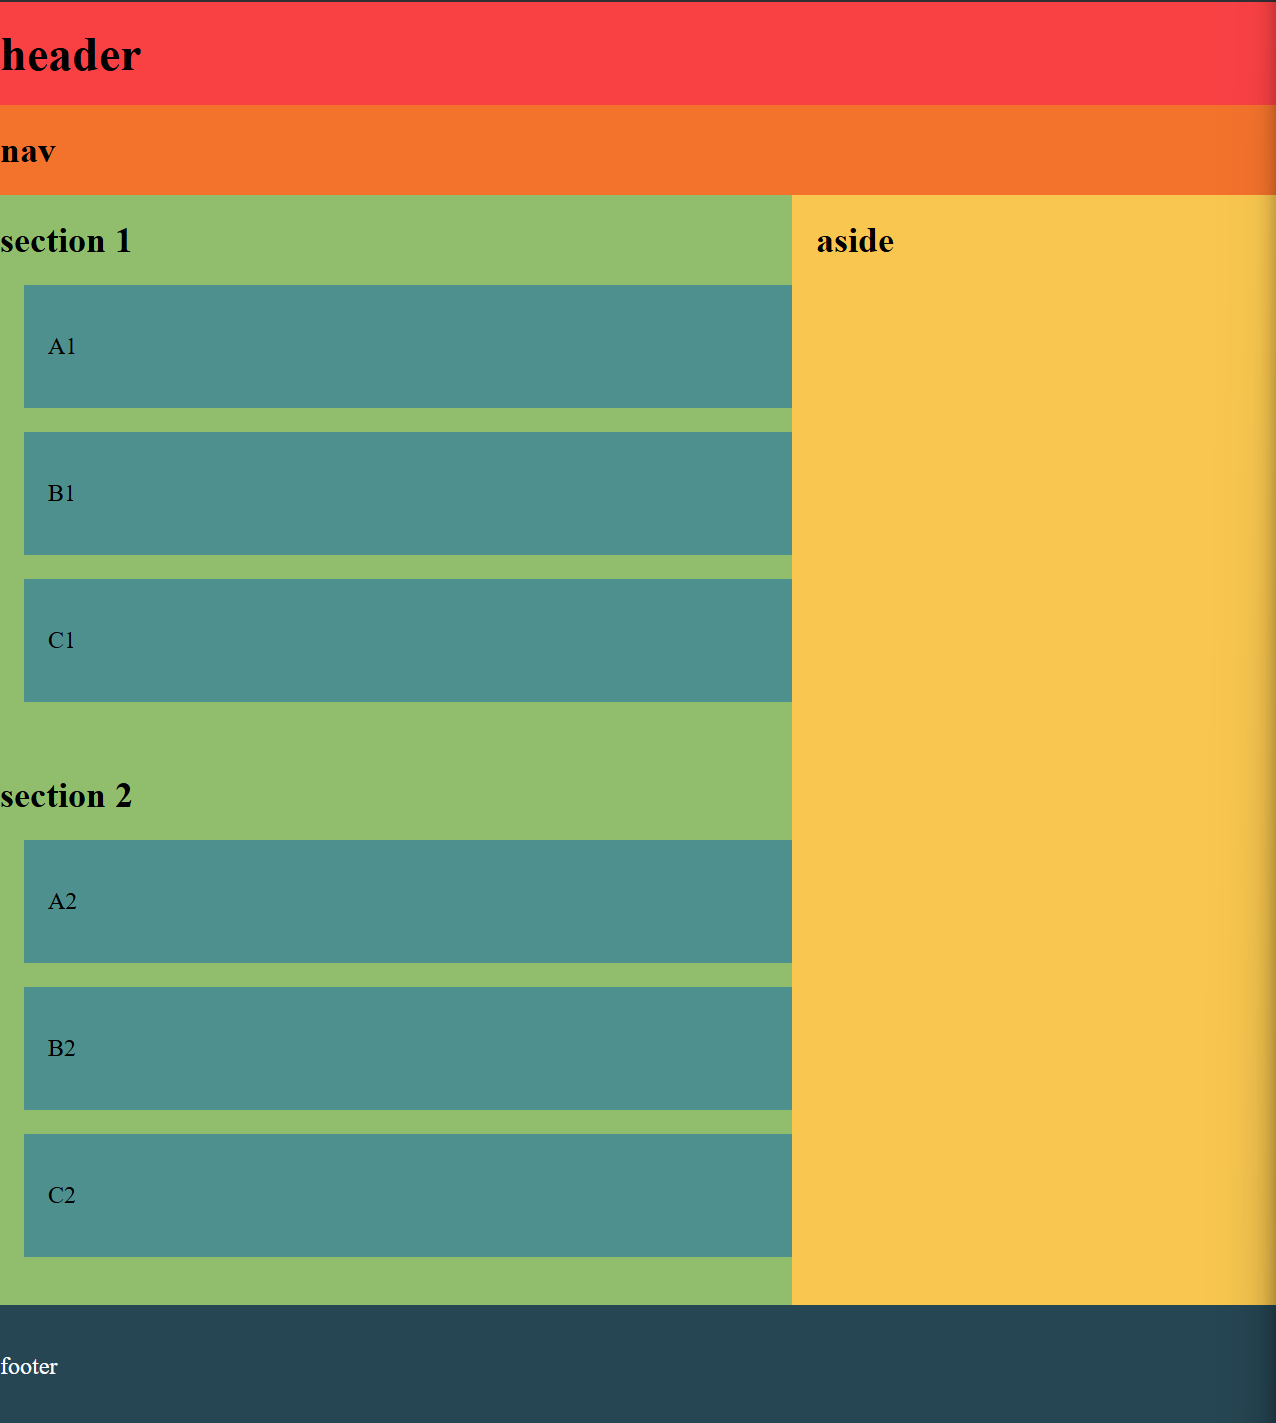
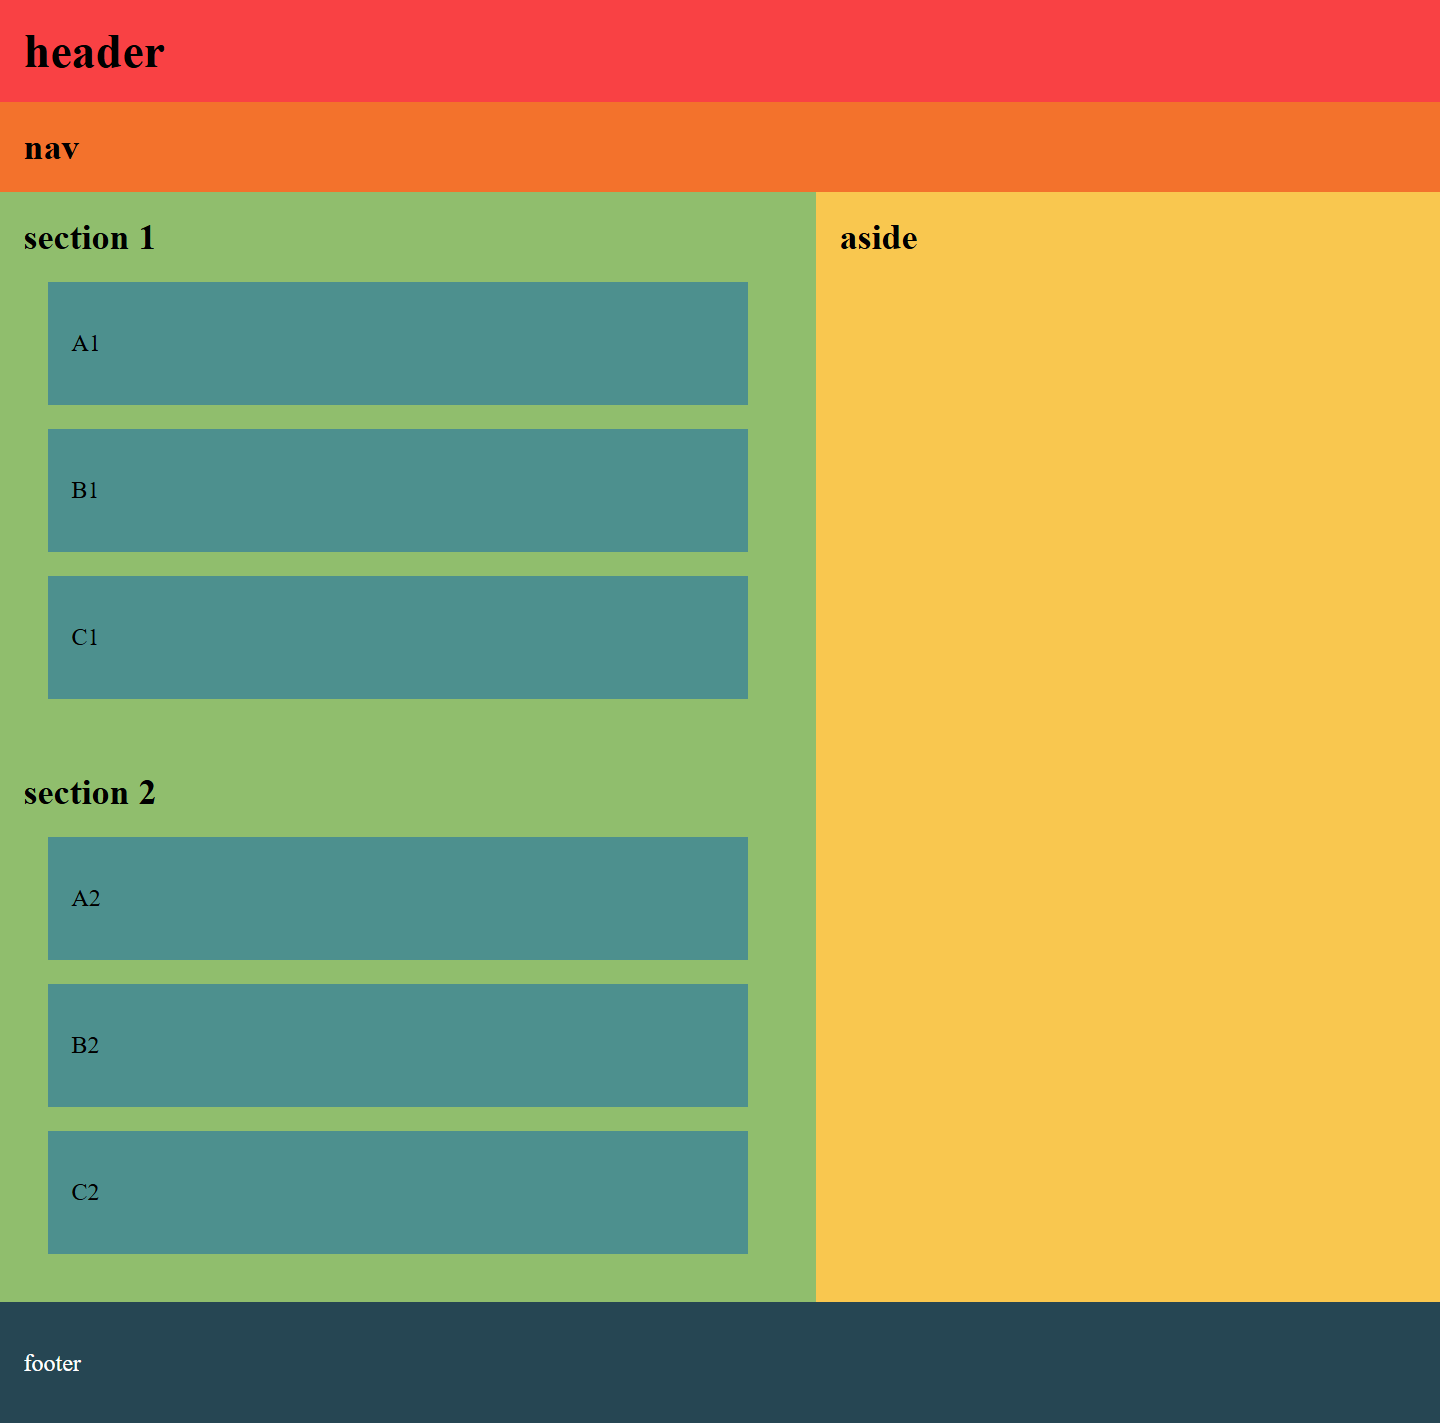
ex2-1_done

diff --git a/exercicios/Semana_4/blocks/style.css b/exercicios/Semana_4/blocks/style.css
@@ -10,6 +10,11 @@ aside {
   
 }
 
+article{
+    width: 80%;
+    margin: 0 auto;
+}
+
 main {
   float: left;
   width: 60%;
